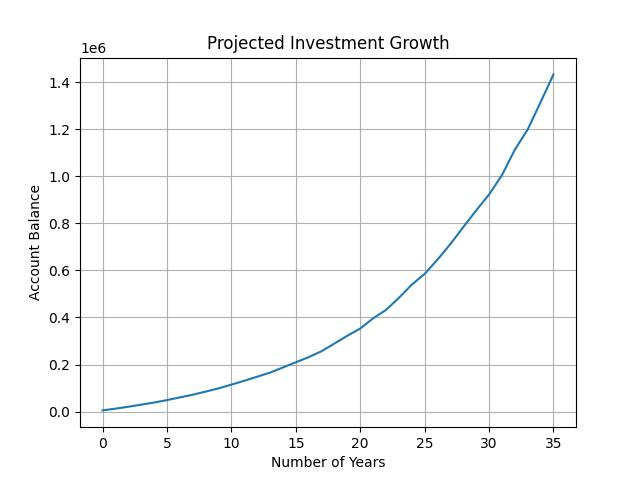
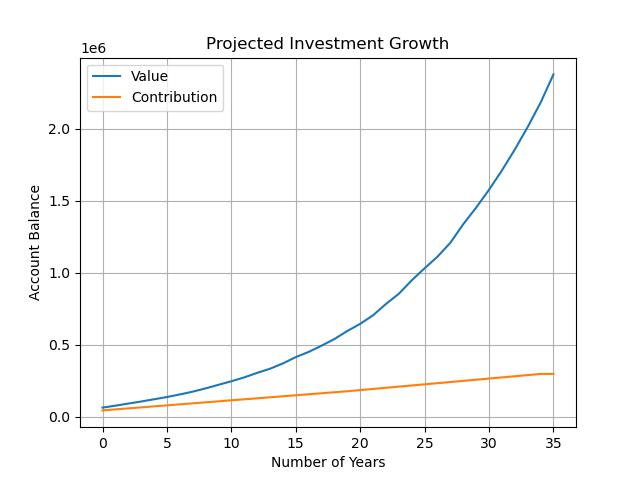
Add files via upload
Added field to add deposit value. Tracks contributions as well as Roth IRA value until retirement age. Graphs both contribution value and Roth IRA total value.

diff --git a/Roth_IRA_Projection.py b/Roth_IRA_Projection.py
@@ -8,13 +8,15 @@ Created on Fri Nov  8 10:33:06 2024
 import random
 import matplotlib.pyplot as plt
 
-def Graph(value) -> None:
+def Graph(value, contribution) -> None:
     y = [x for x in range(len(value))]
     plt.title("Projected Investment Growth")
     plt.xlabel("Number of Years")
     plt.ylabel("Account Balance")
-    plt.plot(y, value)
+    plt.plot(y, value, label = "Value")
+    plt.plot(y, contribution, label = "Contribution")
     plt.grid()
+    plt.legend()
     plt.savefig("Roth Forecast.jpg")
     plt.show()
     plt.close()
@@ -22,10 +24,15 @@ def Graph(value) -> None:
 def Main() -> None:
     # Set starting variables
     value = []
+    contribution_list = []
+    contribution_value = []
     age = int(input("Current Age: "))
     starting_value = float(input("Starting Roth IRA Value: "))
     value.append(starting_value)
+    deposit_value = float(input("Starting Deposit Value: "))
     contribution = float(input("Contributions per year ($7000 Limit): "))
+    contribution_list.append(deposit_value)
+    contribution_value.append(deposit_value)
     i = 0
     
     # iterate until you have your first million dollars
@@ -37,6 +44,8 @@ def Main() -> None:
         age+=1
         starting_value = (starting_value*annual_return) + contribution
         value.append(starting_value)
+        contribution_list.append(contribution)
+        contribution_value.append(sum(contribution_list))
     print("\n"+ str(i), "years")
     print(age, "years old")
     print("$"+str(round(starting_value,2)), "\n")
@@ -50,6 +59,8 @@ def Main() -> None:
         i+=1
         starting_value = (starting_value*annual_return) + contribution
         value.append(starting_value)
+        contribution_list.append(contribution)
+        contribution_value.append(sum(contribution_list))
     print(i, "years")
     print(age, "years old")
     print("$"+str(round(starting_value,2)), "\n")
@@ -60,12 +71,14 @@ def Main() -> None:
     age+=1
     final_value = (starting_value*annual_return)
     value.append(final_value)
+    contribution_list.append(0)
+    contribution_value.append(sum(contribution_list))
     print(i, "years")
     print(age, "years old")
     print("$",round(final_value,2))
     print("You made $" + str(round(final_value-starting_value,2)) + " without contributions after you retired.\n")
     
-    Graph(value)
+    Graph(value, contribution_value)
     
 if __name__=="__main__":
     Main()
